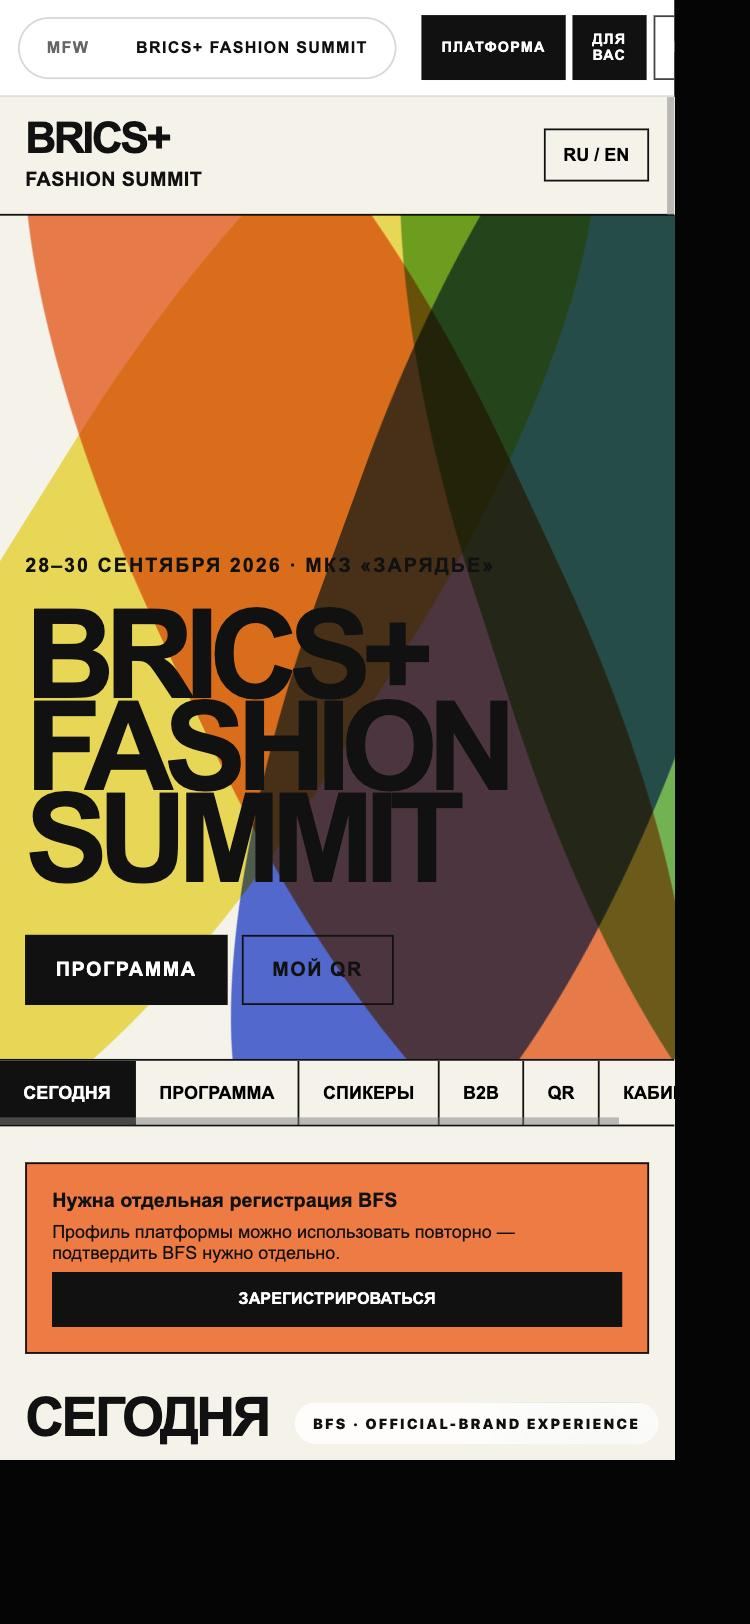
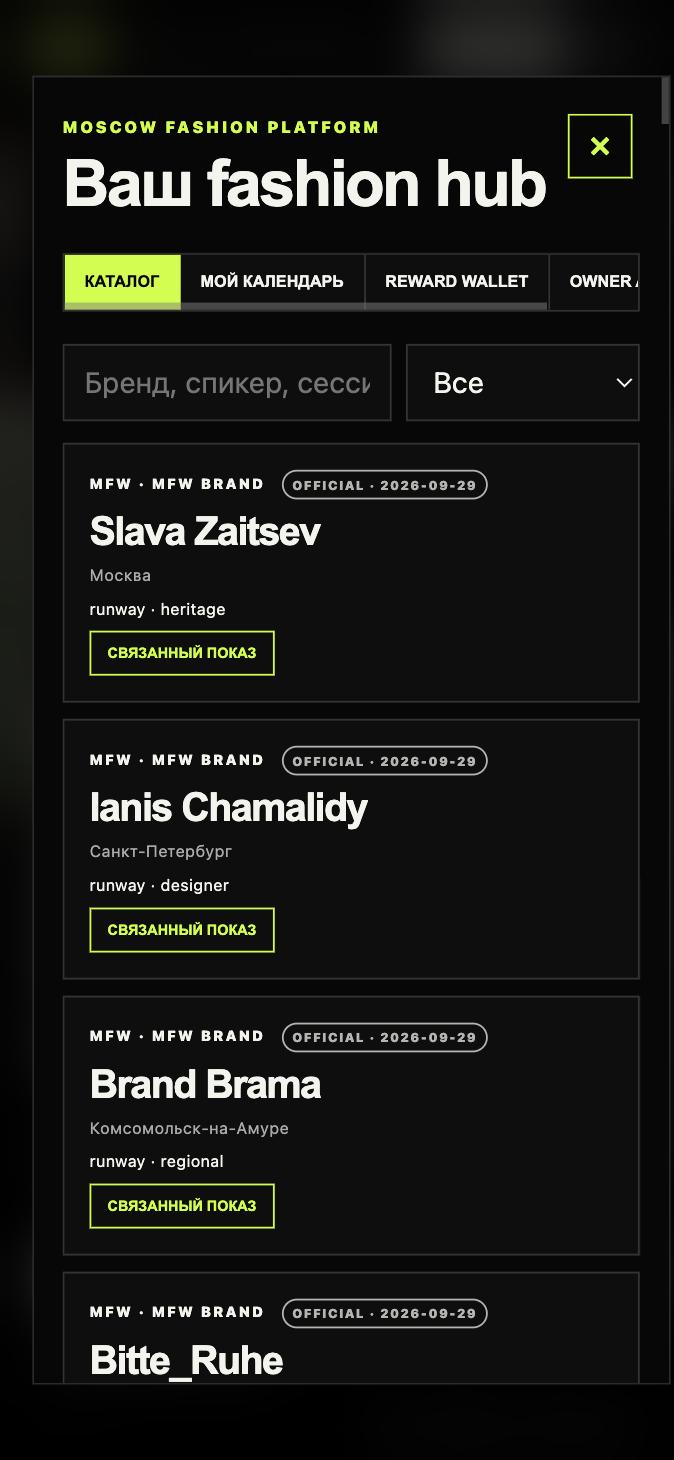
Переименовать MFW→MFW+BFS и Promomed→Promomed + Состояние, фикс галереи
Главный найденный баг: у обоих проектов не было задано device ('iphone'/
'ipad'), а .frame без этого класса не получает ширину из CSS — отсюда
«огромные» скриншоты при открытии карточки. Задано device:'iphone' —
оба набора снимков действительно со смартфона.

Новые лого — в том же стиле, что у Syntha/Renova/ChatX: MFW+BFS — два
пересекающихся круга (два мероприятия на одной платформе), Promomed —
пульс-линия (тема здоровья концепции «СОСТОЯНИЕ»). Сдержанные, как
просили, не перетягивают внимание на себя.

Добавлены реальные скриншоты со второго экрана каждого продукта: каталог
брендов MFW, деловая программа BFS (итого 4 на MFW+BFS — по 2 на
мероприятие), экран подбора знакомств «СОСТОЯНИЯ» (итого 2 на Promomed).
Карточки на главной переписаны конкретнее для инвестора — что это даёт,
а не только что внутри.

diff --git a/assets/content.js b/assets/content.js
@@ -1191,13 +1191,14 @@ export const PROJECTS = [
   },
   {
     id: 'mfw',
-    name: 'MFW',
-    shots: ['/assets/shots/mfw-1.jpg', '/assets/shots/mfw-2.jpg'],
+    name: 'MFW+BFS',
+    device: 'iphone',
+    shots: ['/assets/shots/mfw-1.jpg', '/assets/shots/mfw-2.jpg', '/assets/shots/bfs-1.jpg', '/assets/shots/bfs-2.jpg'],
     ru: {
       roadmap: [{ label: 'MVP', state: 'done' }, { label: 'Демонстрация организаторам', state: 'current' }, { label: 'Использование на мероприятиях', state: 'next' }],
-      tagline: 'Платформа для двух параллельных мероприятий — Недели моды в Москве и BRICS+ Fashion Summit',
+      tagline: 'Платформа для основных российских мероприятий в сфере моды — Недели моды в Москве и BRICS+ Fashion Summit',
       stage: 'MVP',
-      card: 'Показы, LIVE, бренды и цифровой пропуск гостя — в одном пространстве: Неделя моды в Москве и BRICS+ Fashion Summit стоят рядом, а не в очереди друг за другом.',
+      card: 'Два главных события фэшн-индустрии России — на одной платформе с цифровым пропуском, лояльностью брендов и аналитикой, которая остаётся после подиума и работает на оба мероприятия сразу.',
       what: 'Собран MVP платформы для Недели моды в Москве (MFW) и BRICS+ Fashion Summit (BFS): у каждого мероприятия своя визуальная идентичность и отдельная регистрация, а общая инфраструктура одна — аккаунт, программа, уведомления, лояльность, Brand CRM/CDP и аналитика. Для брендов работают профиль Brand 365, подписчики и избранное, сегменты аудитории, конструктор кампаний, верифицированные QR-вознаграждения. Для организаторов и владельца — сквозная аналитика по обоим мероприятиям и Owner Control Tower.',
       who: 'Организаторы Недели моды в Москве и BRICS+ Fashion Summit, участвующие бренды, а через платформу — участники и гости обоих мероприятий.',
       why: 'Два крупных мероприятия, идущих параллельно, обычно живут в разных программах, чатах и рассылках — участнику и гостю приходится держать в голове два источника вместо одного. Брендам ещё сложнее: аудитория, лояльность и аналитика собираются заново под каждое мероприятие, а сквозной связи между MFW и BFS нет вообще.',
@@ -1205,9 +1206,9 @@ export const PROJECTS = [
     },
     en: {
       roadmap: [{ label: 'MVP', state: 'done' }, { label: 'Demo to organisers', state: 'current' }, { label: 'Use at the events', state: 'next' }],
-      tagline: 'A platform for two parallel events — Moscow Fashion Week and the BRICS+ Fashion Summit',
+      tagline: 'A platform for Russia’s two flagship fashion events — Moscow Fashion Week and the BRICS+ Fashion Summit',
       stage: 'MVP',
-      card: 'Shows, LIVE, brands and a guest’s digital pass in one space: Moscow Fashion Week and the BRICS+ Fashion Summit standing side by side, not queued one after the other.',
+      card: 'Two flagship events of Russia’s fashion industry on one platform, with a digital pass, brand loyalty and analytics that outlast the runway and work across both events at once.',
       what: 'An MVP has been built for Moscow Fashion Week (MFW) and the BRICS+ Fashion Summit (BFS): each event keeps its own visual identity and its own registration, while shared infrastructure covers the account, programme, notifications, loyalty, Brand CRM/CDP and analytics. For brands: a Brand 365 profile, followers and favourites, audience segments, a campaign builder, and verified QR rewards. For organisers and the owner: cross-event analytics and an Owner Control Tower.',
       who: 'The organisers of Moscow Fashion Week and the BRICS+ Fashion Summit, participating brands, and — through the platform — both events’ attendees and guests.',
       why: 'Two large events running in parallel typically live in separate programs, chats and mailing lists — attendees end up juggling two sources instead of one. It’s harder still for brands: audience, loyalty and analytics get rebuilt for every event, with no thread connecting MFW and BFS at all.',
@@ -1216,13 +1217,14 @@ export const PROJECTS = [
   },
   {
     id: 'promomed',
-    name: 'Promomed',
-    shots: ['/assets/shots/promomed-1.jpg'],
+    name: 'Promomed + Состояние',
+    device: 'iphone',
+    shots: ['/assets/shots/promomed-1.jpg', '/assets/shots/promomed-2.jpg'],
     ru: {
-      tagline: '«СОСТОЯНИЕ» — рабочая концепция комьюнити и ежегодной конференции для Promomed',
+      tagline: '«СОСТОЯНИЕ» — рабочая концепция комьюнити и ежегодной конференции в сфере здоровья и красоты',
       roadmap: [{ label: 'Концепция и MVP', state: 'done' }, { label: 'Согласование с Promomed', state: 'current' }, { label: 'Разработка и запуск', state: 'next' }],
       stage: 'Концепция, MVP',
-      card: 'Не мероприятие на день, а маршрут на год: комьюнити вокруг здоровья и ежегодная конференция «Человек. Наука. Жизнь.» для «Промомед» на одной платформе.',
+      card: 'Платформа, которая превращает одну конференцию в год в постоянно растущее комьюнити — и даёт «Промомед» управляемую, измеримую связь с аудиторией вместо разового события.',
       what: 'Собран MVP рабочей концепции «СОСТОЯНИЕ»: персональный маршрут дня вместо общей программы для всех, Smart Route — расписание, собранное под интересы конкретного человека, Moment Mode («у меня есть 20 минут» — лучший следующий шаг с учётом времени), и «Паспорт СОСТОЯНИЯ» — не рейтинг, а личный след участия (знания, событие, диалог, практика), который открывает персональный набор материалов после конференции.',
       who: '«Промомед» — ведущая инновационная биофармацевтическая компания с потенциалом значительного роста в перспективных сегментах фармацевтического рынка — а также её клиенты и партнёры.',
       why: 'Комьюнити вокруг здоровья и ежегодная конференция обычно ведутся раздельно: рассылки и соцсети — отдельно, регистрация и программа конференции — отдельно. Связь с аудиторией, которая копится весь год, не работает на само мероприятие, а после конференции у участника остаётся пакет раздаточных материалов, а не персональный маршрут.',
@@ -1230,9 +1232,9 @@ export const PROJECTS = [
     },
     en: {
       roadmap: [{ label: 'Concept and MVP', state: 'done' }, { label: 'Alignment with Promomed', state: 'current' }, { label: 'Build and launch', state: 'next' }],
-      tagline: '“SOSTOYANIE” — a working concept for a community and annual conference for Promomed',
+      tagline: '“SOSTOYANIE” — a working concept for a community and annual conference in health and wellness',
       stage: 'Concept, MVP',
-      card: 'Not an event for a day, but a route for a year: a health community and Promomed’s “Human. Science. Life.” annual conference on one platform.',
+      card: 'A platform that turns one conference a year into a continuously growing community — giving Promomed a managed, measurable relationship with its audience instead of a one-off event.',
       what: 'An MVP has been built for the “SOSTOYANIE” working concept: a personal day route instead of one programme for everyone, Smart Route — a schedule built around one person’s interests, Moment Mode (“I have 20 minutes” — the best next step given the time available), and a “SOSTOYANIE Passport” — not a leaderboard, but a personal record of participation (knowledge, event, dialogue, practice) that unlocks a personal set of materials after the conference.',
       who: 'Promomed — a leading innovative biopharmaceutical company with the potential for significant growth in promising segments of the pharmaceutical market — and its clients and partners.',
       why: 'A health community and an annual conference are usually run apart: newsletters and social media on one side, conference registration and program on the other. Audience relationships built up over the year don’t feed into the event itself, and what a participant leaves with is a handout pack rather than a personal route.',

diff --git a/assets/logos.js b/assets/logos.js
@@ -5,8 +5,10 @@ export const LOGOS = {
   syntha: `<svg xmlns="http://www.w3.org/2000/svg" viewBox="0 0 152 32" role="img" aria-label="Syntha"><path d="M16 12.6c0-2.1 3.1-2.1 3.1-4.2A3.1 3.1 0 0 0 16 5.3" fill="none" stroke="currentColor" stroke-width="1.7" stroke-linecap="round"/><path d="M16 12.6 4.2 21.4h23.6L16 12.6Z" fill="none" stroke="currentColor" stroke-width="1.7" stroke-linejoin="round"/><text x="40" y="23" font-family="Iowan Old Style, Georgia, serif" font-size="21" letter-spacing="0.3" fill="currentColor">Syntha</text></svg>`,
   renova: `<svg xmlns="http://www.w3.org/2000/svg" viewBox="0 0 152 32" role="img" aria-label="Renova"><g fill="currentColor"><rect x="18.4" y="5.0" width="10.6" height="6.4" rx="0.9"/><rect x="6.3" y="5.0" width="10.6" height="6.4" rx="0.9"/><rect x="12.35" y="12.9" width="10.6" height="6.4" rx="0.9"/><rect x="1.6" y="12.9" width="9.25" height="6.4" rx="0.9"/><rect x="18.4" y="20.8" width="10.6" height="6.4" rx="0.9"/><rect x="6.3" y="20.8" width="10.6" height="6.4" rx="0.9"/></g><text x="40" y="23" font-family="Iowan Old Style, Georgia, serif" font-size="21" letter-spacing="0.3" fill="currentColor">Renova</text></svg>`,
   chatx: `<svg xmlns="http://www.w3.org/2000/svg" viewBox="0 0 152 32" role="img" aria-label="ChatX"><rect x="3.6" y="7" width="24.8" height="15" rx="4.2" fill="none" stroke="currentColor" stroke-width="1.7"/><path d="M10 22v4.8l5.6-4.8" fill="none" stroke="currentColor" stroke-width="1.7" stroke-linejoin="round" stroke-linecap="round"/><path d="M12.4 11.4l7.2 6.2M19.6 11.4l-7.2 6.2" fill="none" stroke="currentColor" stroke-width="1.7" stroke-linecap="round"/><text x="40" y="23" font-family="Iowan Old Style, Georgia, serif" font-size="21" letter-spacing="0.3" fill="currentColor">ChatX</text></svg>`,
-  /* MFW и Promomed пока без нарисованного знака — только словесная марка,
-     как временное решение до готового лого. */
-  mfw: `<svg xmlns="http://www.w3.org/2000/svg" viewBox="0 0 60 32" role="img" aria-label="MFW"><text x="0" y="23" font-family="Iowan Old Style, Georgia, serif" font-size="21" letter-spacing="0.3" fill="currentColor">MFW</text></svg>`,
-  promomed: `<svg xmlns="http://www.w3.org/2000/svg" viewBox="0 0 150 32" role="img" aria-label="Promomed"><text x="0" y="23" font-family="Iowan Old Style, Georgia, serif" font-size="21" letter-spacing="0.3" fill="currentColor">Promomed</text></svg>`
+  /* MFW+BFS — два пересекающихся круга: два мероприятия на одной платформе,
+     без раскраски под конкретное событие — нейтральный знак. */
+  mfw: `<svg xmlns="http://www.w3.org/2000/svg" viewBox="0 0 172 32" role="img" aria-label="MFW+BFS"><circle cx="10.5" cy="16" r="7.2" fill="none" stroke="currentColor" stroke-width="1.6"/><circle cx="20.5" cy="16" r="7.2" fill="none" stroke="currentColor" stroke-width="1.6"/><text x="40" y="23" font-family="Iowan Old Style, Georgia, serif" font-size="20" letter-spacing="0.2" fill="currentColor">MFW+BFS</text></svg>`,
+  /* Promomed — пульс-линия: здоровье и маршрут как сквозная тема концепции
+     «СОСТОЯНИЕ», сама словесная марка остаётся сдержанной. */
+  promomed: `<svg xmlns="http://www.w3.org/2000/svg" viewBox="0 0 152 32" role="img" aria-label="Promomed"><path d="M2 16h4.5l2.2-6.5 3.6 13 2.2-6.5h4.5" fill="none" stroke="currentColor" stroke-width="1.6" stroke-linecap="round" stroke-linejoin="round"/><text x="33" y="23" font-family="Iowan Old Style, Georgia, serif" font-size="21" letter-spacing="0.3" fill="currentColor">Promomed</text></svg>`
 };

diff --git a/promomed.html b/promomed.html
@@ -50,7 +50,7 @@
 
   <header class="doc-head">
     <span class="doc-logo" id="doc-logo"></span>
-    <h1>«СОСТОЯНИЕ» × Promomed</h1>
+    <h1>Promomed + Состояние</h1>
     <p class="doc-lead">Человек. Наука. Жизнь. — конференция, которая не заканчивается
       закрытием зала, а год работает на каждого, кто в ней был.</p>
     <p class="doc-stage"><span class="stage">Концепция, MVP</span></p>
@@ -244,16 +244,20 @@
 
   <section class="doc-block" id="s06">
     <p class="sec-no">06 — Как это выглядит</p>
-    <h2><span>Персональный маршрут дня</span></h2>
-    <p class="doc-lead-in">Снимок с рабочей MVP-сборки: не общая программа, а маршрут
-      под интерес конкретного участника.</p>
+    <h2><span>Персональный маршрут — и живое комьюнити вокруг него</span></h2>
+    <p class="doc-lead-in">Снимки с рабочей MVP-сборки: не общая программа для всех,
+      а маршрут под интерес конкретного участника и осмысленные знакомства
+      внутри конференции, а не просто обмен визитками.</p>
 
     <figure class="exhibit shots">
       <div class="shot-row">
         <img src="/assets/shots/promomed-1.jpg" alt="«СОСТОЯНИЕ» — персональный маршрут дня"
              loading="lazy">
+        <img src="/assets/shots/promomed-2.jpg" alt="«СОСТОЯНИЕ» — осмысленные знакомства участников"
+             loading="lazy">
       </div>
-      <p class="doc-note shot-hint">Нажмите на снимок, чтобы открыть его во весь экран.</p>
+      <p class="doc-note shot-hint">Нажмите на снимок, чтобы открыть его во весь экран
+        и пролистать оба.</p>
     </figure>
   </section>
 
@@ -294,6 +298,6 @@
   <p class="year">© <span id="year"></span></p>
 </footer>
 
-<script type="module" src="/assets/project-page.js?v=202610011235" data-project="promomed"></script>
+<script type="module" src="/assets/project-page.js?v=202610011503" data-project="promomed"></script>
 </body>
 </html>

diff --git a/mfw.html b/mfw.html
@@ -242,19 +242,24 @@
 
   <section class="doc-block" id="s06">
     <p class="sec-no">06 — Как это выглядит</p>
-    <h2><span>Два экрана — MFW и BFS</span></h2>
+    <h2><span>Четыре экрана — MFW и BFS бок о бок</span></h2>
     <p class="doc-lead-in">Снимки с рабочей превью-сборки: своё лицо у каждого
-      мероприятия, общая платформа внутри.</p>
+      мероприятия, общая платформа внутри — переключение между MFW и BFS
+      происходит одним тапом в шапке, без выхода из приложения.</p>
 
     <figure class="exhibit shots">
       <div class="shot-row">
-        <img src="/assets/shots/mfw-1.jpg" alt="MFW — экран Недели моды в Москве"
+        <img src="/assets/shots/mfw-1.jpg" alt="MFW — главный экран Недели моды в Москве"
              loading="lazy">
-        <img src="/assets/shots/mfw-2.jpg" alt="MFW — экран BRICS+ Fashion Summit"
+        <img src="/assets/shots/mfw-2.jpg" alt="MFW — каталог дизайнеров и брендов"
+             loading="lazy">
+        <img src="/assets/shots/bfs-1.jpg" alt="BFS — главный экран BRICS+ Fashion Summit"
+             loading="lazy">
+        <img src="/assets/shots/bfs-2.jpg" alt="BFS — деловая программа"
              loading="lazy">
       </div>
       <p class="doc-note shot-hint">Нажмите на снимок, чтобы открыть его во весь экран
-        и пролистать оба.</p>
+        и пролистать все четыре подряд.</p>
     </figure>
   </section>
 
@@ -295,6 +300,6 @@
   <p class="year">© <span id="year"></span></p>
 </footer>
 
-<script type="module" src="/assets/project-page.js?v=202610011235" data-project="mfw"></script>
+<script type="module" src="/assets/project-page.js?v=202610011503" data-project="mfw"></script>
 </body>
 </html>

diff --git a/assets/project-page.js b/assets/project-page.js
@@ -6,8 +6,8 @@
 
    Какой это проект, страница сообщает атрибутом data-project на своём
    теге script: иначе пришлось бы держать две почти одинаковые копии. */
-import { PROJECTS, T } from './content.js?v=202610011235';
-import { LOGOS } from './logos.js?v=202609301526';
+import { PROJECTS, T } from './content.js?v=202610011503';
+import { LOGOS } from './logos.js?v=202610011503';
 import { createViewer } from './viewer.js?v=202609301526';
 import { syncSnaps } from './snap.js?v=202609301526';
 

diff --git a/assets/app.js b/assets/app.js
@@ -1,6 +1,6 @@
-import { T, PROJECTS, CONTACTS, COMPARE } from './content.js?v=202610011235';
+import { T, PROJECTS, CONTACTS, COMPARE } from './content.js?v=202610011503';
 import { DECK } from './deck.js?v=202609301526';
-import { LOGOS } from './logos.js?v=202609301526';
+import { LOGOS } from './logos.js?v=202610011503';
 import { createViewer } from './viewer.js?v=202609301526';
 import { syncSnaps } from './snap.js?v=202609301526';
 import { NEWS } from './news.js?v=202609301526';

diff --git a/renova.html b/renova.html
@@ -448,6 +448,6 @@
   <p class="year">© <span id="year"></span></p>
 </footer>
 
-<script type="module" src="/assets/project-page.js?v=202610011235" data-project="renova"></script>
+<script type="module" src="/assets/project-page.js?v=202610011503" data-project="renova"></script>
 </body>
 </html>

diff --git a/syntha.html b/syntha.html
@@ -842,6 +842,6 @@
   <p class="year">© <span id="year"></span></p>
 </footer>
 
-<script type="module" src="/assets/project-page.js?v=202610011235" data-project="syntha"></script>
+<script type="module" src="/assets/project-page.js?v=202610011503" data-project="syntha"></script>
 </body>
 </html>

diff --git a/chatx.html b/chatx.html
@@ -437,6 +437,6 @@
   <p class="year">© <span id="year"></span></p>
 </footer>
 
-<script type="module" src="/assets/project-page.js?v=202610011235" data-project="chatx"></script>
+<script type="module" src="/assets/project-page.js?v=202610011503" data-project="chatx"></script>
 </body>
 </html>

diff --git a/en/index.html b/en/index.html
@@ -412,6 +412,6 @@
   </div>
 </dialog>
 
-<script type="module" src="/assets/app.js?v=202610011235"></script>
+<script type="module" src="/assets/app.js?v=202610011503"></script>
 </body>
 </html>

diff --git a/index.html b/index.html
@@ -412,6 +412,6 @@
   </div>
 </dialog>
 
-<script type="module" src="/assets/app.js?v=202610011235"></script>
+<script type="module" src="/assets/app.js?v=202610011503"></script>
 </body>
 </html>
